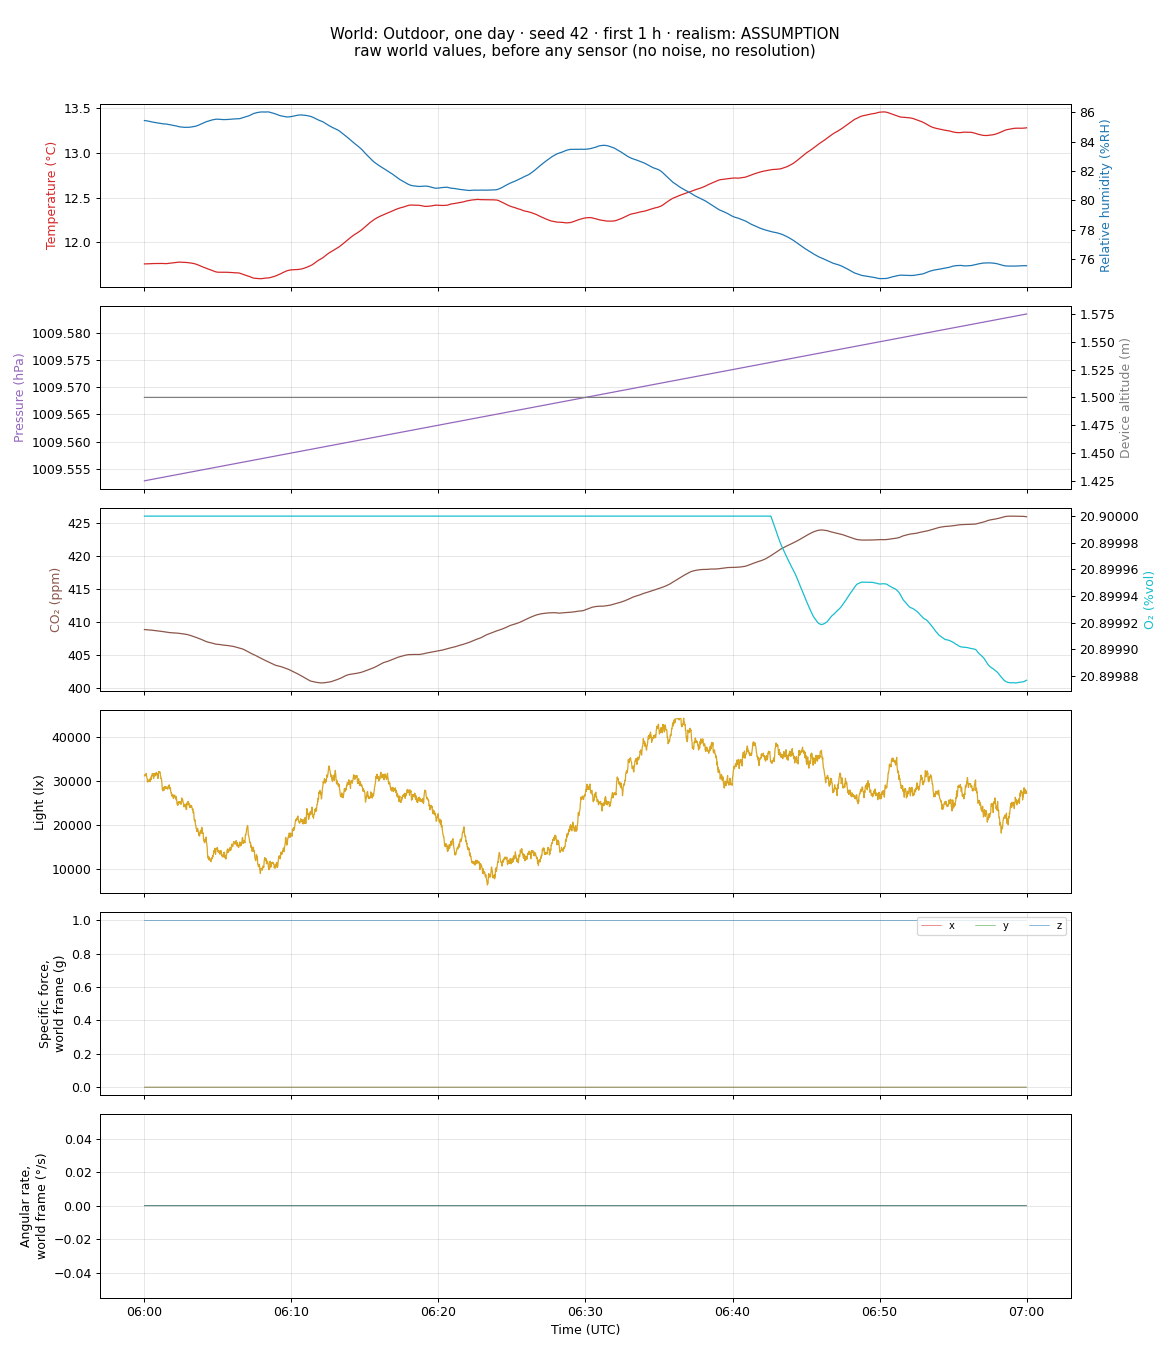
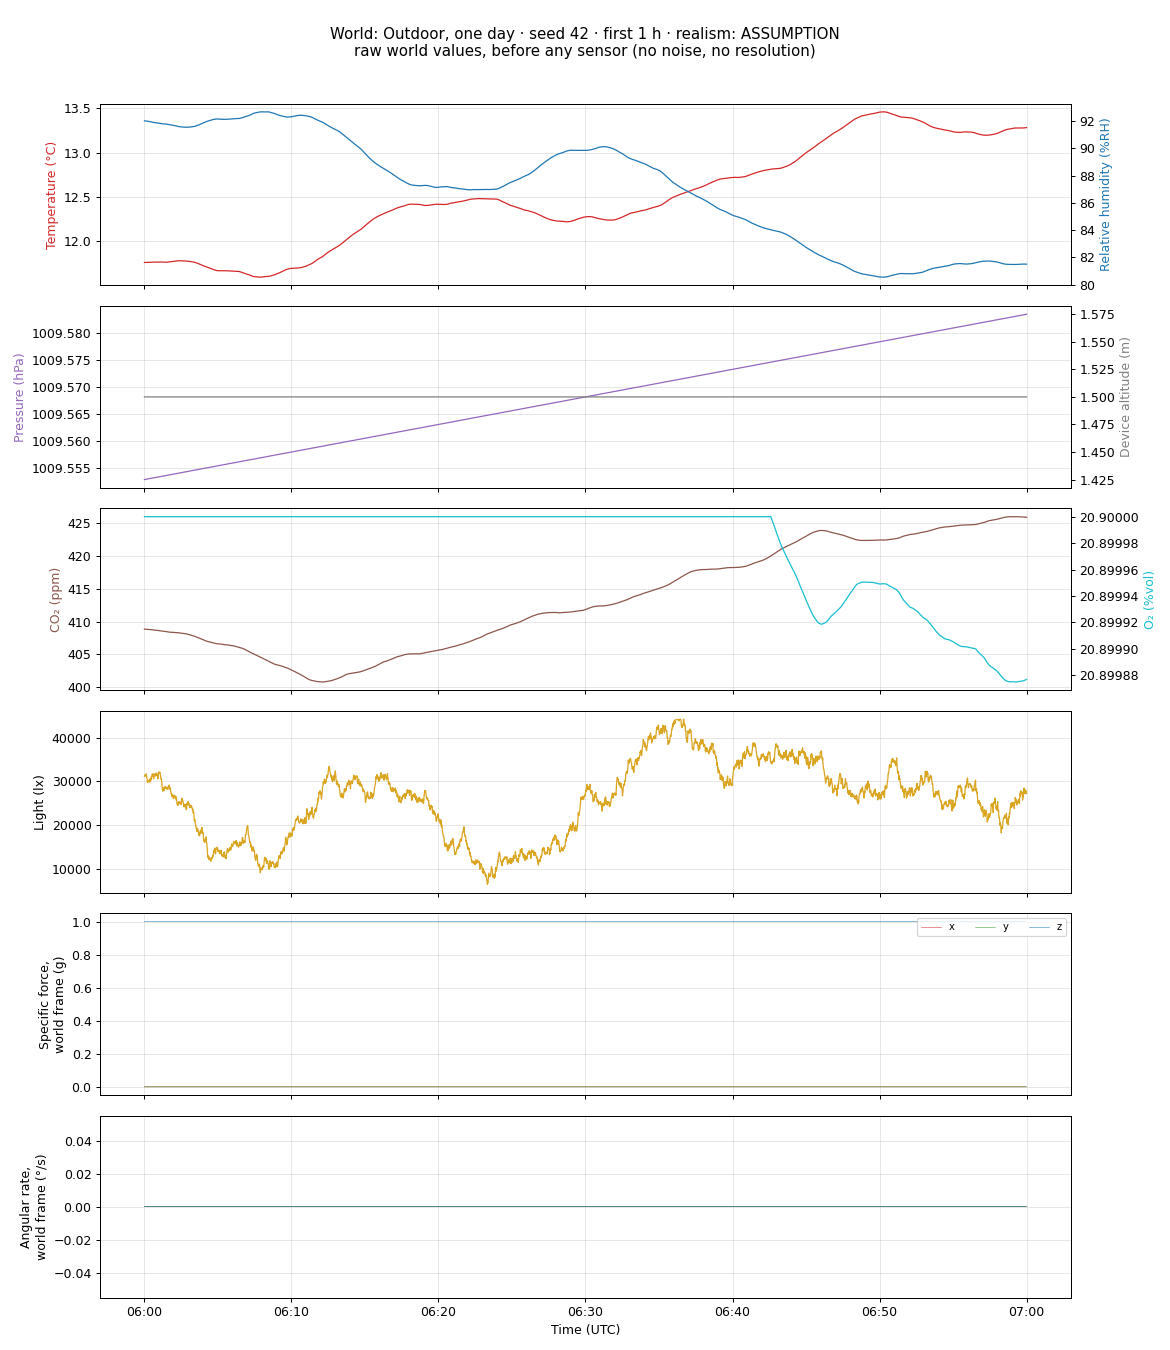
Cap vapour at saturation, choose the combustible gas per world, add fall and no-motion detection to the G7c

diff --git a/core/devices/device.py b/core/devices/device.py
@@ -50,10 +50,17 @@ FEATURES = {
     "battery_hours": "battery runtime (battery_pct column)",
     "connectivity": "how it reports (signal_strength_dbm column)",
     "gateway": "reports through a gateway (gateway id and link columns)",
+    "motion_alerts": "fall and no-motion detection from the accelerometer: fall_state and no_motion_state columns "
+                     "(ok / pre_alarm / alert), written last",
 }
+MOTION_ALERTS = {"fall": ("pre_alarm_s",), "no_motion": ("detect_s", "pre_alarm_s")}
 STATE_COLUMNS = {"sos": ["sos_state"], "pump": ["pump_state", "pump_alarm"]}
 GATEWAY_COLUMNS = {"bridge": ["bridge_id", "bridge_link"]}
 ALARM_LEVELS = ("low", "high", "stel", "twa")
+
+
+def v_(p):
+    return p["value"] if isinstance(p, dict) and "value" in p else p
 
 
 def slugify(name: str) -> str:
@@ -187,7 +194,8 @@ class Device:
 
     def columns(self) -> List[str]:
         """CSV columns, in this order: timestamp, device_id, gateway, readings, derived channels,
-        device_mode, states, battery, signal, then per alarmed quantity its alarm flags and over-range."""
+        device_mode, states, battery, signal, then per alarmed quantity its alarm flags and over-range,
+        then the motion alert states (added later, so the gas columns keep their old order)."""
         f = self.features
         cols = ["timestamp", "device_id"]
         if f.get("gateway"):
@@ -206,13 +214,14 @@ class Device:
         if f.get("connectivity"):
             cols.append("signal_strength_dbm")
         over = set((f.get("over_range") or {}).get("quantities", []))
+        tail = [f"{k}_state" for k in MOTION_ALERTS if v_(f.get("motion_alerts", {}).get(k))]
         flagged = list(self.alarms()) + [q for q in self.measured() if q in over and q not in self.alarms()]
         for q in flagged:
             a = self.alarms().get(q, {})
             cols += [f"{self.stem(q)}_alarm_{lv}" for lv in ALARM_LEVELS if lv in a]
             if q in over:
                 cols.append(f"{self.stem(q)}_over_range")
-        return cols
+        return cols + tail
 
     def device_id(self, n: int = 1) -> str:
         return f"{self.device_id_prefix}-{n:04d}"
@@ -253,6 +262,17 @@ class Device:
             if s not in STATE_COLUMNS:
                 raise ParamError(f"device {name!r}: unknown state {s!r}; known: {list(STATE_COLUMNS)}")
             check_source(f"{name}.states.{s}", v)
+        ma = self.features.get("motion_alerts") or {}
+        for k, spec in ma.items():
+            if k not in MOTION_ALERTS:
+                raise ParamError(f"device {name!r}: unknown motion alert {k!r}; known: {list(MOTION_ALERTS)}")
+            check_source(f"{name}.motion_alerts.{k}", spec)
+            for p in MOTION_ALERTS[k]:
+                if p not in spec:
+                    raise ParamError(f"device {name!r}: motion_alerts.{k} needs {p}")
+                check_source(f"{name}.motion_alerts.{k}.{p}", spec[p])
+        if ma and "body.accel_g" not in meas:
+            raise ParamError(f"device {name!r}: motion alerts need an accelerometer (body.accel_g)")
         gw = self.features.get("gateway")
         if gw and gw.get("kind") not in GATEWAY_COLUMNS:
             raise ParamError(f"device {name!r}: unknown gateway kind {gw.get('kind')!r}")

diff --git a/tests/test_devices.py b/tests/test_devices.py
@@ -65,7 +65,8 @@ class TestGasPresets(unittest.TestCase):
                 old = pd.read_csv(os.path.join(ROOT, "data", "gas", f"{d}_shift_seed42.csv"), nrows=1)
                 expect = [c for c in old.columns if c not in ("gap_before_s", "event")]
                 dev = Device.load(d)
-                self.assertEqual(dev.columns(), expect)
+                new = ["fall_state", "no_motion_state"] if d == "blackline_g7c" else []     # added later, at the end
+                self.assertEqual(dev.columns(), expect + new)
                 self.assertEqual(dev.device_id(), old["device_id"].iloc[0])
 
     def test_numbers_match_spec_and_assumptions(self):
@@ -76,7 +77,7 @@ class TestGasPresets(unittest.TestCase):
                 spec = json.load(fh)
             dev = Device.load(d)
             models = {q: m for _, q, m in dev.models()}
-            self.assertEqual(set(models), {Q[g] for g in spec["channels"]})
+            self.assertEqual(set(models) - {"body.accel_g"}, {Q[g] for g in spec["channels"]})
             for g, ch in spec["channels"].items():
                 with self.subTest(f"{d}.{g}"):
                     m = models[Q[g]]
@@ -94,6 +95,17 @@ class TestGasPresets(unittest.TestCase):
             self.assertEqual(dev.feature("battery_hours"), v(spec["battery_runtime_h"]))
             self.assertEqual(v(dev.features["exposure"]["window_s"]), v(A["stel_rule"])["window_s"])
             self.assertEqual(v(dev.features["exposure"]["period_s"]), v(A["twa_rule"])["period_s"])
+
+    def test_g7c_motion_alerts(self):
+        dev = Device.load("blackline_g7c")
+        accel = [u for u in dev.parts if "body.accel_g" in u.part.quantities()][0]
+        self.assertFalse(accel.logged("body.accel_g"))
+        self.assertTrue(accel.note.startswith("ASSUMPTION"))
+        self.assertEqual(dev.columns()[-2:], ["fall_state", "no_motion_state"])
+        bad = {"name": "No Accel", "parts": [{"part": "blackline_h2s_cell"}],
+               "features": {"motion_alerts": dev.features["motion_alerts"]}}
+        with self.assertRaises(ParamError):
+            Device.from_dict(bad)
 
     def test_io6_assumptions_carried(self):
         dev = Device.load("msa_altair_io6")

diff --git a/core/world/world.py b/core/world/world.py
@@ -148,7 +148,7 @@ class World:
         clean = {"air.co2_ppm": v(ca["co2_ppm"])}
         for g in GASES:
             tr[g] = np.maximum(d[g], 0.0)
-        frac = P.foreign_fraction({g: tr[g] for g in GASES}, clean, v(ca["lel_gas_vol_pct"]))
+        frac = P.foreign_fraction({g: tr[g] for g in GASES}, clean, self.lel_gas_vol_pct)
         tr["air.o2_pct"] = P.oxygen(v(ca["o2_pct"]), frac)
         self.tracks = {k: Track(dt, np.asarray(x, float)) for k, x in tr.items()}
         # body
@@ -172,6 +172,22 @@ class World:
         self.tracks["altitude_m"] = Track(dt, alt)
         self.tracks["air.pressure_hpa"] = Track(dt, P.pressure_at(tr["air.sea_level_pressure_hpa"], alt))
         return self
+
+    @property
+    def combustible_gas(self) -> str:
+        return v(self.preset["clean_air"]["combustible_gas"])
+
+    @property
+    def lel_gas_vol_pct(self) -> float:
+        """%vol of the combustible gas at 100 %LEL: given in the preset, or from the table in physics.py."""
+        ca = self.preset["clean_air"]
+        if "lel_vol_pct" in ca:
+            return float(v(ca["lel_vol_pct"]))
+        g = self.combustible_gas
+        if g not in P.COMBUSTIBLE_LEL_VOL_PCT:
+            raise ValueError(f"world {self.name}: combustible gas {g!r} has no LEL in the table "
+                             f"({', '.join(P.COMBUSTIBLE_LEL_VOL_PCT)}); give clean_air.lel_vol_pct")
+        return P.COMBUSTIBLE_LEL_VOL_PCT[g]
 
     # reading
     def at(self, name: str, t):
@@ -198,4 +214,5 @@ class World:
     def describe(self) -> dict:
         return {"name": self.name, "title": self.preset.get("title", self.name), "realism": self.realism,
                 "description": self.preset.get("description", ""), "start_utc": str(self.start) + "Z",
+                "combustible_gas": self.combustible_gas, "lel_vol_pct": self.lel_gas_vol_pct,
                 "duration_s": self.duration_s, "seed": self.seed}

diff --git a/tests/test_world.py b/tests/test_world.py
@@ -62,6 +62,30 @@ class TestAirRelations(unittest.TestCase):
         np.testing.assert_allclose(rh, np.minimum(100 * e / P.saturation_vapour_pressure(T), 100))
         self.assertLess(np.corrcoef(T, rh)[0, 1], -0.8)          # warmer -> drier, same vapour content
 
+    def test_saturation_caps_vapour(self):
+        """Air that cools below its dew point holds no more vapour than saturation: RH stops at 100."""
+        w = World("outdoor_day", 24 * HOUR, 1)
+        T, e = w.tracks["air.temperature_c"].values, w.tracks["air.vapour_pressure_hpa"].values
+        es = P.saturation_vapour_pressure(T)
+        self.assertTrue((e <= es + 1e-12).all())
+        capped = w.drivers["air.vapour_pressure_hpa"] > es
+        self.assertTrue(capped.any())                           # it happens in this world (dawn)
+        np.testing.assert_allclose(w.tracks["air.humidity_rh"].values[capped], 100.0)
+        self.assertLess(capped.mean(), 0.5)
+
+    def test_combustible_gas(self):
+        for gas, vol in (("methane", 5.0), ("propane", 2.1), ("hydrogen", 4.0)):
+            d = copy.deepcopy(load_preset("static_shelf"))
+            d["clean_air"]["combustible_gas"]["value"] = gas
+            w = World(d, 600, 1)
+            w.drivers["air.lel_pct"][:] = 100
+            w.drivers["air.co2_ppm"][:] = 420
+            w.derive()
+            np.testing.assert_allclose(w.tracks["air.o2_pct"].values, 20.9 * (1 - vol / 100))
+        d["clean_air"]["combustible_gas"]["value"] = "acetylene"
+        with self.assertRaises(ValueError):
+            World(d, 600, 1)
+
     def test_magnus(self):
         self.assertAlmostEqual(float(P.saturation_vapour_pressure(20.0)), 23.37, places=1)
         self.assertAlmostEqual(float(P.relative_humidity(20.0, P.vapour_pressure(20.0, 55.0))), 55.0)

diff --git a/core/world/physics.py b/core/world/physics.py
@@ -4,7 +4,8 @@ the same world agrees with every other.
 
     humidity     RH from temperature and the water vapour pressure (Magnus formula): warmer air at
                  the same vapour content has a lower RH
-    oxygen       foreign gas displaces air: O2 = O2_clean × (1 − foreign volume fraction)
+    oxygen       foreign gas displaces air: O2 = O2_clean × (1 − foreign volume fraction); the
+                 combustible gas behind %LEL is chosen per world (methane, propane, hydrogen)
     pressure     from sea-level pressure and altitude (standard atmosphere), about −0.12 hPa per m
                  near sea level
     body motion  orientation, angular rate and specific force come from one kinematic description
@@ -33,6 +34,12 @@ def relative_humidity(t_c, e_hpa):
 
 def vapour_pressure(t_c, rh_pct):
     return np.asarray(rh_pct, float) / 100.0 * saturation_vapour_pressure(t_c)
+
+
+# %vol at 100 %LEL, the values most portable detectors are calibrated with
+COMBUSTIBLE_LEL_VOL_PCT = {"methane": 5.0, "propane": 2.1, "hydrogen": 4.0}
+COMBUSTIBLE_SOURCE = ("ASSUMPTION: LEL values common in detector calibration (methane 5.0, propane 2.1, hydrogen "
+                      "4.0 %vol); IEC 60079-20-1 lists 4.4, 1.7 and 4.0 %vol")
 
 
 def pressure_at(sea_level_hpa, altitude_m):
